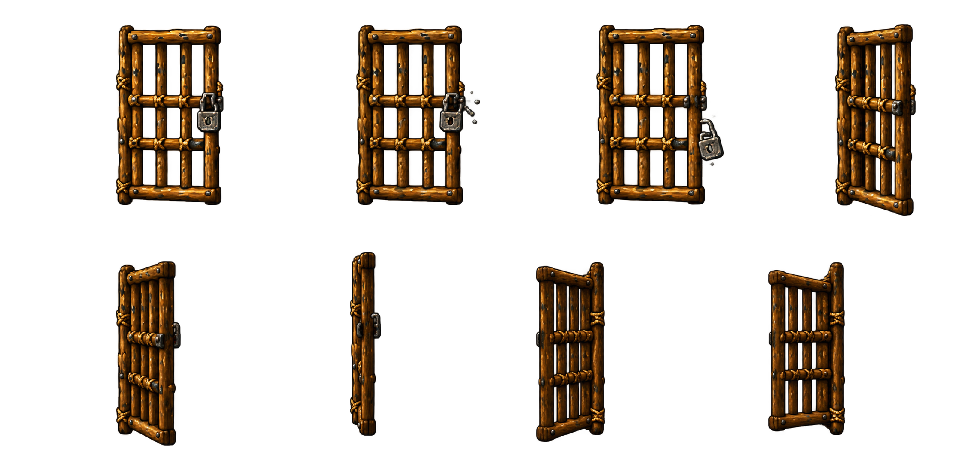
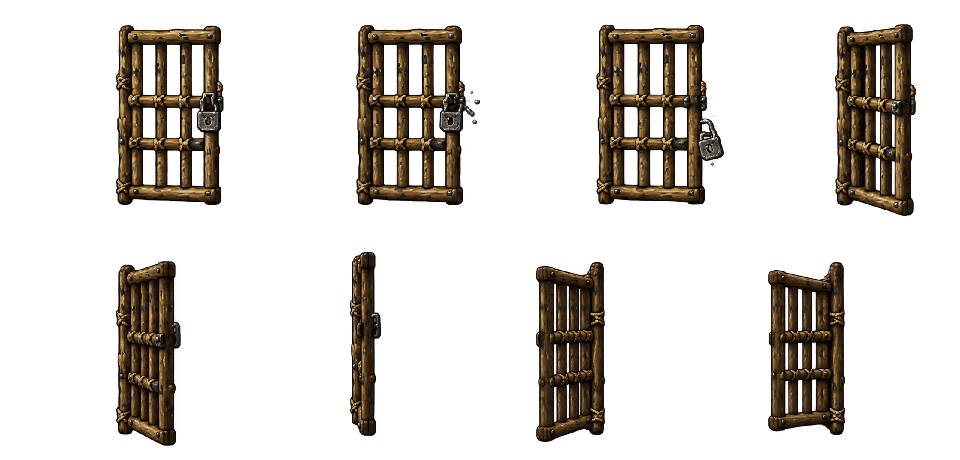
Match cinematic palettes and lift shots above overlay captions

diff --git a/demos/forest/src/cinematics.ts b/demos/forest/src/cinematics.ts
@@ -14,6 +14,7 @@ import { CAGE_APPROACH_AREA } from './transition-content';
 import { campRescue, forestHomeward, villageHomecoming, forestMarch, villageAbduction, sampleWalk, sampleEntrance, walkLength } from './cinematic-paths';
 import { forestDoors, doorObjectId, doorWorldAperture } from './door-layout';
 import { DoorForeground } from './door-foreground';
+import { liftCinematicWorld } from './cinematic-framing';
 
 export type CinematicKind = 'intro' | 'ending';
 export type EndingOpening = { position: Point; facing: Direction; zoom: number; x: number; y: number };
@@ -145,6 +146,7 @@ export class ForestCinematic {
     const t = clamp(elapsedMs / duration);
     if (this.kind === 'intro') this.intro(stepIndex, t);
     else this.ending(stepIndex, t);
+    this.frameAboveCaption();
     this.world.sort('depth');
     this.lighting?.sync(forestLighting(this.room, this.definitions.get(this.room)?.objects ?? [],
       id => this.ambient.find(light => light.sprite.name === `ambient-${id}`)?.sprite), this.world);
@@ -197,6 +199,19 @@ export class ForestCinematic {
       // modifying child filters; ignoring the outer container already hides it.
       object.cameraFilter |= this.camera.id;
     }
+  }
+
+  private frameAboveCaption(): void {
+    if (!document.body.classList.contains('game-fullscreen')) return;
+    const stage = this.scene.game.canvas.getBoundingClientRect();
+    const caption = document.querySelector('.inventory-bar')?.getBoundingClientRect();
+    if (!caption || stage.height <= 0) return;
+    const coveredBottom = Math.max(0, Math.min(stage.height, stage.bottom - caption.top)) * H / stage.height;
+    // Keep the title tableau and the gameplay-to-ending handoff continuous.
+    const blend = this.stepIndex !== 0 ? 1 : this.kind === 'intro'
+      ? smooth((this.elapsedMs - INTRO_APPROACH_START_MS) / 1000) : smooth(this.elapsedMs / 900);
+    this.world.y = liftCinematicWorld(this.world.y, this.definitions.get(this.room)!.height,
+      this.world.scaleY, H, coveredBottom, (this.room === 'forest' ? 32 : 18) * blend);
   }
 
   private shot(room: string, name: string, zoom: number, focusX = 480, focusY = 285, tint = 0xffffff): void {

diff --git a/demos/forest/src/cinematic-framing.ts b/demos/forest/src/cinematic-framing.ts
@@ -1,0 +1,6 @@
+/** Pan down only as far as the opaque lower bar can hide the background edge. */
+export function liftCinematicWorld(y: number, roomHeight: number, zoom: number, viewportHeight: number, coveredBottom: number, lift: number): number {
+  const visibleBottom = viewportHeight - Math.max(0, Math.min(viewportHeight, coveredBottom));
+  const available = Math.max(0, y + roomHeight * zoom - visibleBottom);
+  return y - Math.min(Math.max(0, lift), available);
+}

diff --git a/docs/art-prompts.md b/docs/art-prompts.md
@@ -388,3 +388,22 @@ Final generation prompt:
 ```text
 Use case: precise-object-edit. Asset type: production pixel-art object spritesheet for a point-and-click game. Input image is the EXACT existing chest to animate, not a loose style reference. Create ONE transparent PNG spritesheet with exactly NINE separate frames in a 3-column by 3-row grid, ordered left-to-right, top-to-bottom. Each equal square cell has wide transparent gutters. Every frame shows this SAME dwarven oak chest, with the SAME iron bands, latch, three angular amber runes, identical perspective (front and right side visible), identical fixed body size, and identical bottom-foot anchor. The chest base never moves, deforms, shrinks or changes perspective. Leave space above it for the lid; retain crisp pixel-art pixels, oak colors and dark iron. Frame 1: exact closed chest, dim runes. Frame 2: the three runes glow softly amber, light reflected subtly in neighboring wood. Frame 3: brighter amber runes. Frame 4: lid cracks open with amber light from within. Frame 5: lid halfway up, hinges at the rear stay fixed. Frame 6: lid opens farther. Frame 7: lid fully open, one wooden-handled steel dwarven pickaxe visible inside. Frame 8: same fully open chest holding the pickaxe, amber rune glow settling. Frame 9: identical fully open chest but empty after the pickaxe has been collected. Keep all frames isolated on actual transparent alpha, no environment, no floor, no shadows outside the object, no labels, no text, no grid lines, no extra objects. Zero camera movement, fixed chest-body proportions and position in every cell. Preserve this exact chest identity and do not redesign it.
 ```
+
+
+## Cinematic color matching (October 2026)
+
+Built-in image tool, color-only edits with transparent output. The generated sheets were used as palette studies, not replacement geometry. `demos/forest/scripts/match-cinematic-palettes.mjs` transfers only selected material colors back to the original sheets: every alpha pixel, frame dimension, silhouette and anchor stays unchanged. The king's final cloth palette is sampled directly from the promoted front-idle reference (slightly brighter than the generated study); the door uses the generated weathered-timber palette. Recorded HSV medians are in `scripts/cinematic-palettes.json`, which the importer also accepts in place of reference PNGs. Apply to the pre-correction sources, not repeatedly to the corrected outputs.
+
+Final project assets (relative to `demos/forest/public`): `art/characters/king/hands-up.png`, `art/objects/cage-door-open.png`, `art/objects/cage-door.png`. The closed door is copied exactly from frame zero of the corrected sheet.
+
+King prompt (edit target: original hands-up sheet; reference: `art/king.idle-front.promoted-1790370386743.png`):
+
+```text
+Edit image 1 ONLY. This is a production 8-frame sprite sheet, 4 columns x 2 rows, 400x280 pixels (100x140 each). COLOR CORRECTION ONLY: change the blue cloth of the king's tunic and sleeves from its brighter saturated royal blue to the slightly muted dark blue-gray cloth palette shown in reference image 2 (idle animation). Keep EVERY frame, pose, face, hand, gold trim, red cape, shoes, exact silhouette, pixel placement, feet baseline, margins, framing and sprite grid unchanged. Do not redraw or enhance anything. Preserve original resolution if possible. Transparent background and transparent margins. Image 2 is color reference only; never copy its brown background or grid. Output only the edited 4x2 sheet.
+```
+
+Door prompt (edit target: original cage-door-open sheet; reference: `art/camp-doorless.png`):
+
+```text
+Edit image 1 ONLY. Production 8-frame sprite sheet, 4 columns x 2 rows, 960x460 pixels, each cell240x230. COLOR CORRECTION ONLY: match the door timber palette to the stationary cage wood on the right of reference image 2. Current door is too bright golden/orange compared with the cage's muted brown weathered timber. Gently reduce orange saturation and brightness to match that exact cage. Preserve highlights and texture. Keep all 8 frames, geometry, hinges, silhouettes, padlock breaking and falling, opening angles, alpha edges, cell positions, empty space and every pixel's spatial position unchanged. Do NOT redesign, rescale, reposition, remove details or introduce scenery. Image2 is wood COLOR reference only. Output only the corrected same 4x2 sheet with transparent background and transparent gaps between bars.
+```
